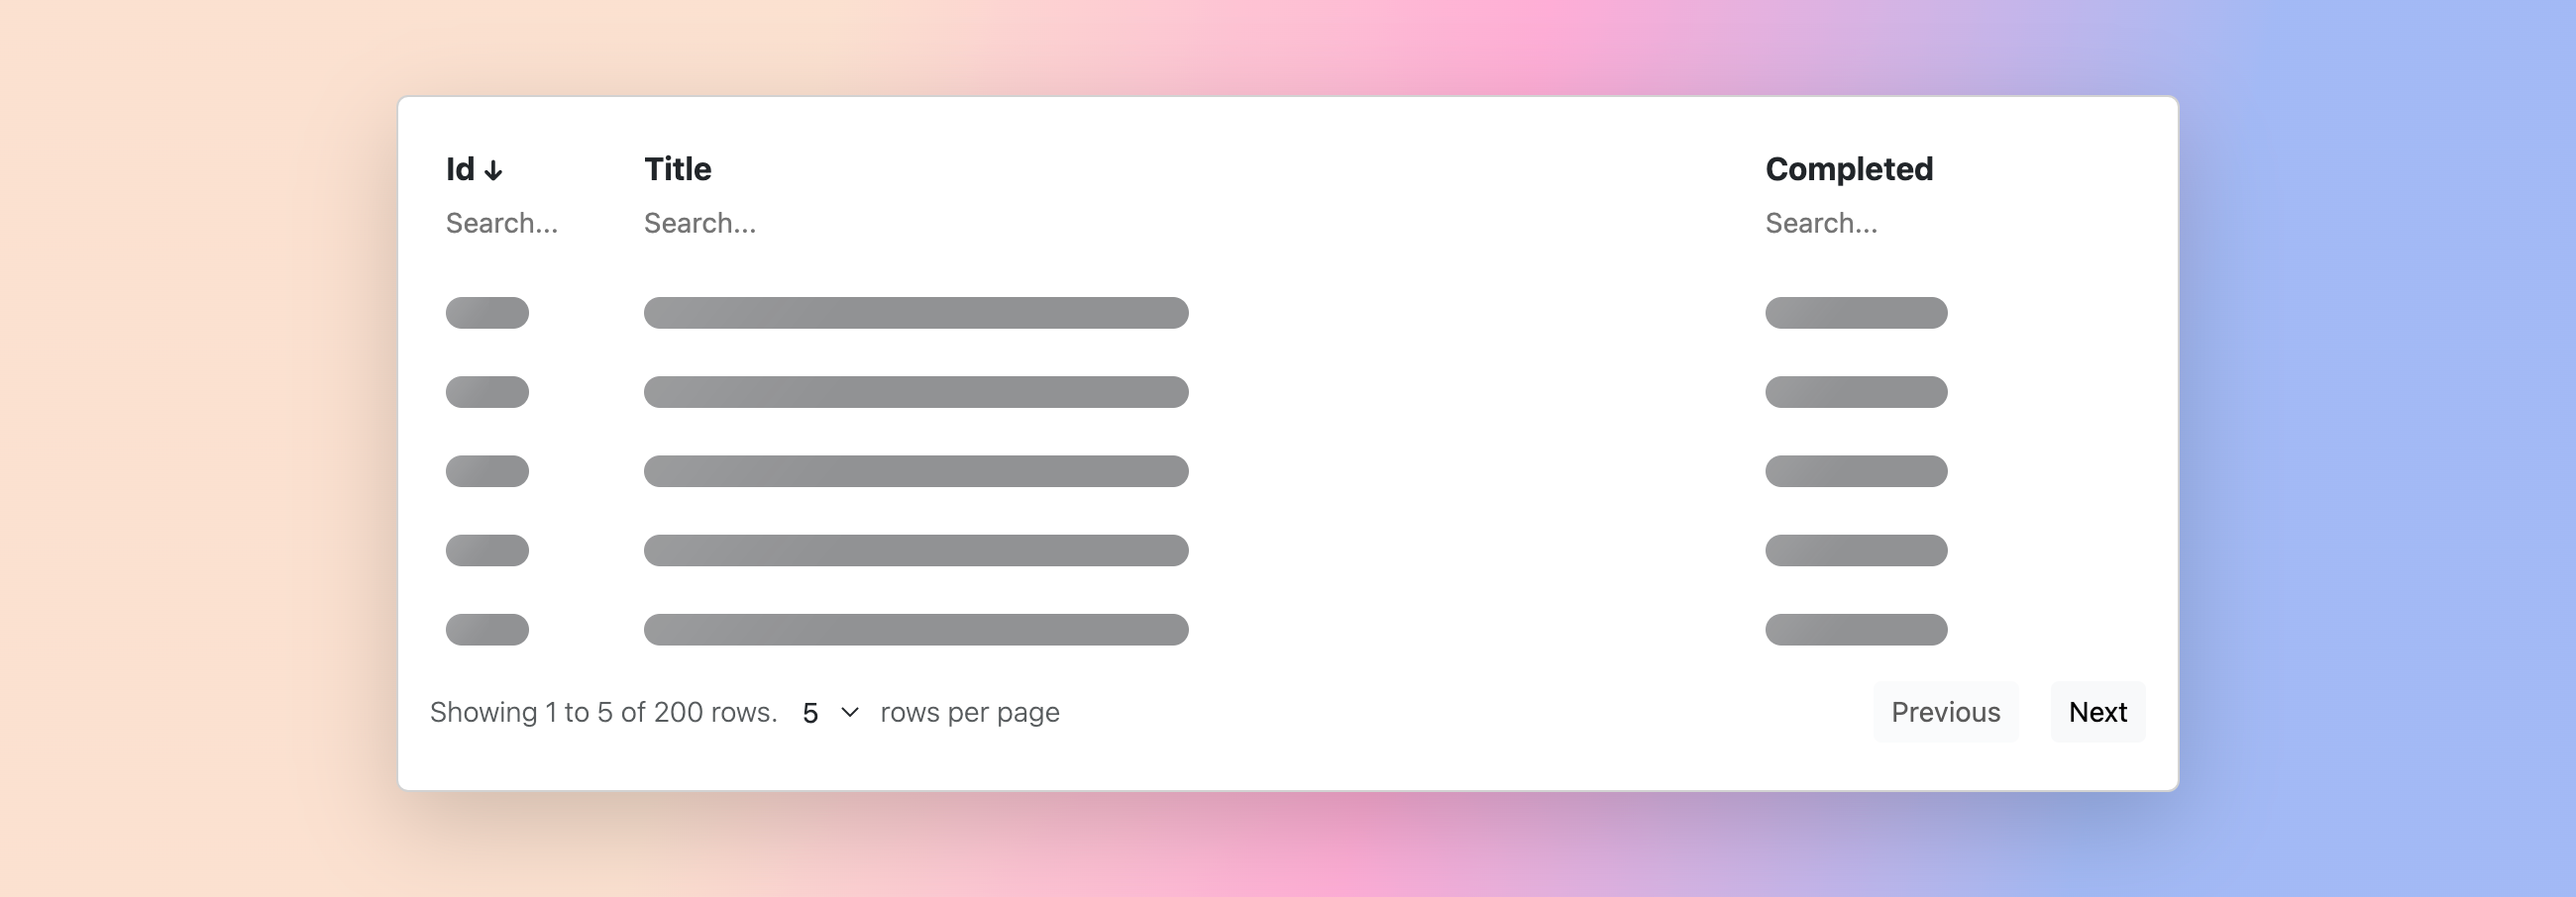
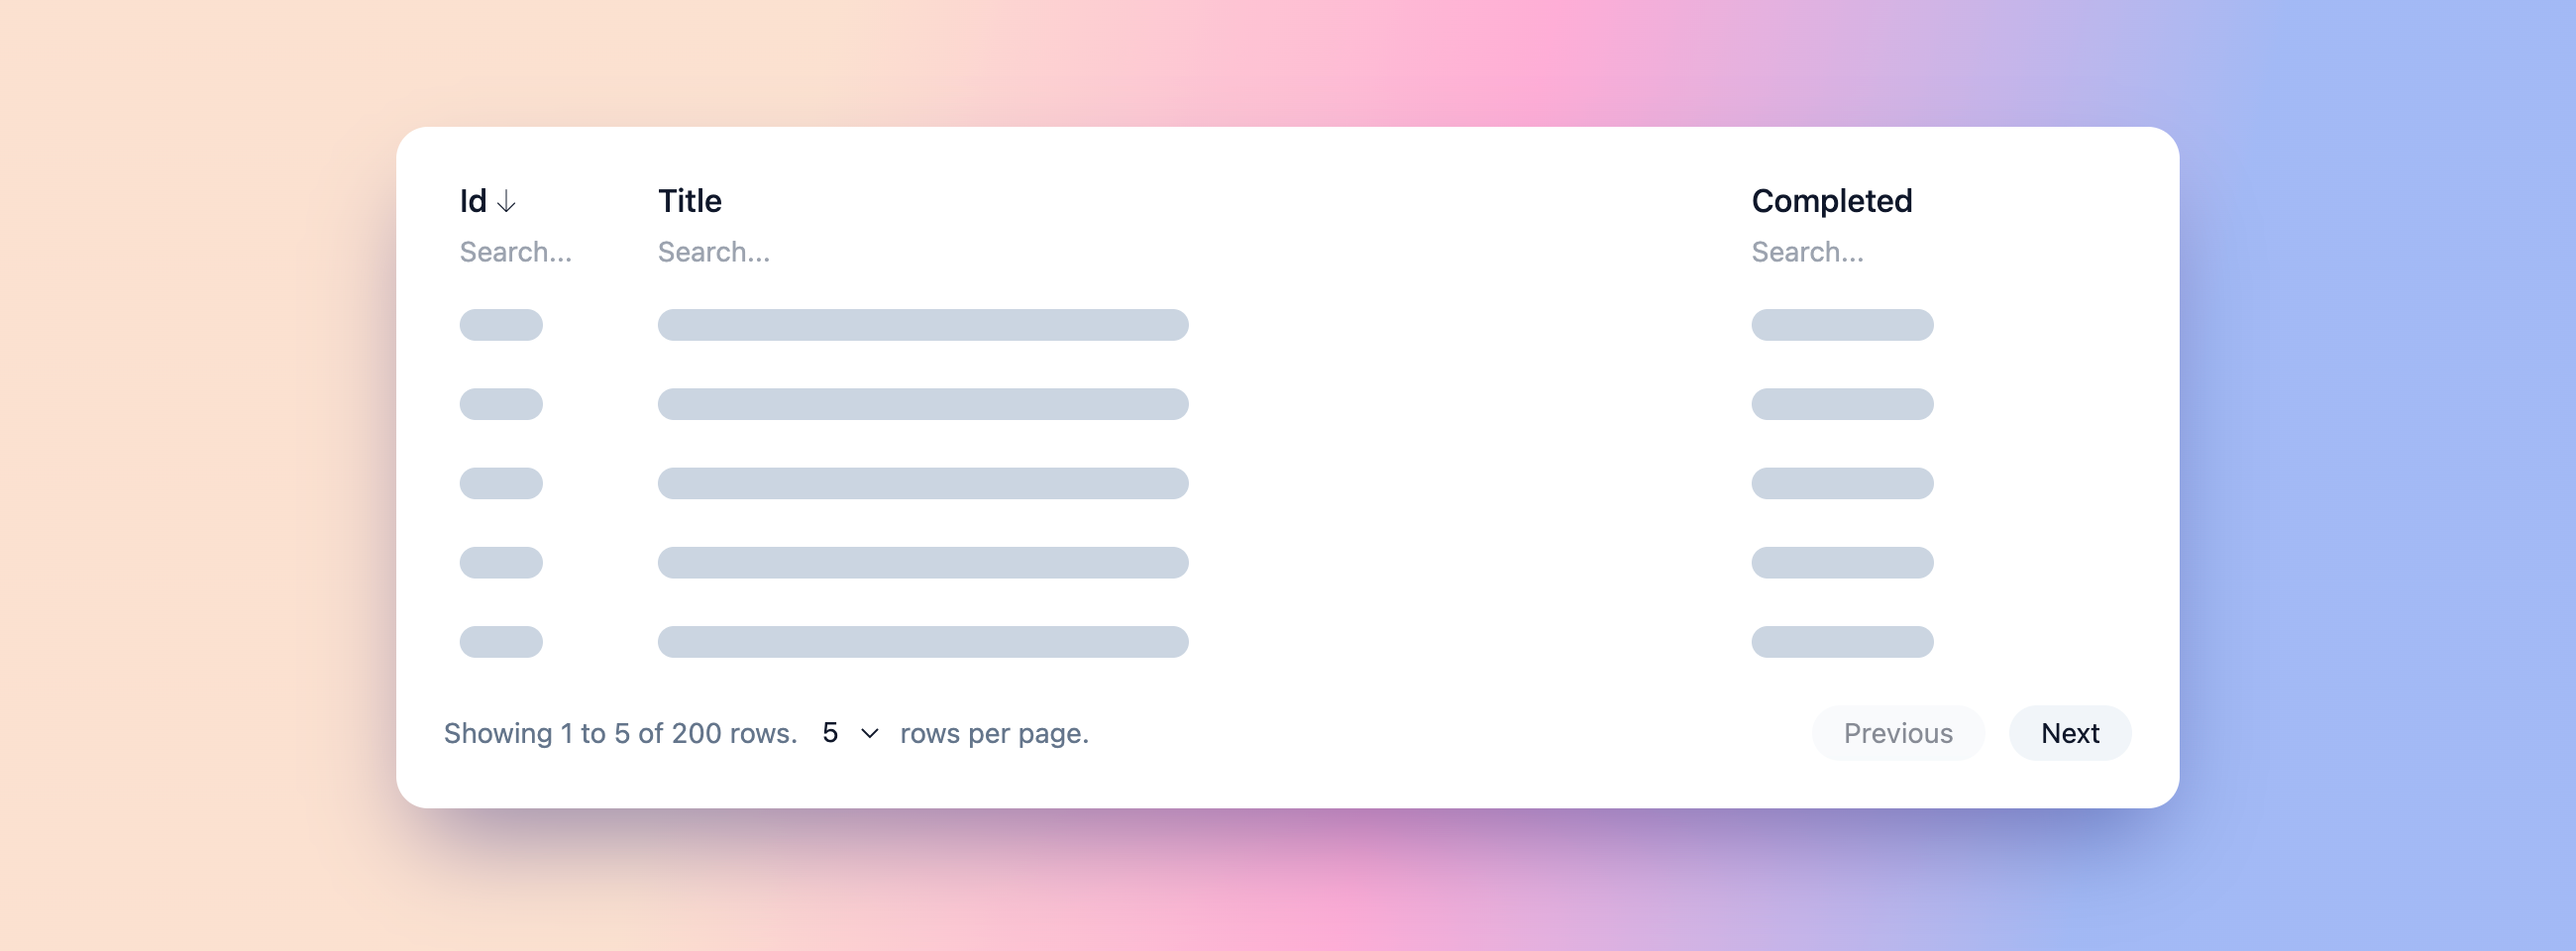
style by tailwind

diff --git a/example/table/table-pagination.tsx b/example/table/table-pagination.tsx
@@ -21,28 +21,26 @@ export const TablePagination: FC = memo(() => {
     recordsPerPageChanged(parseInt(e.target.value));
 
   return (
-    <div className="d-flex align-items-center justify-content-between">
-      <div className="d-flex align-items-center fw-light gap-2">
-        <small>{`Showing ${recordsRange} ${allRecordsCount} rows.`}</small>
-        <div>
-          <select
-            defaultValue={recordsPerPage}
-            onChange={handleChange}
-            className="form-control-plaintext form-control-sm"
-          >
-            {[5, 10, 15].map((value) => (
-              <option key={value} value={value}>
-                {value}
-              </option>
-            ))}
-          </select>
-        </div>
-        <small>rows per page</small>
+    <div className="flex items-center justify-between">
+      <div className="flex items-center text-sm text-slate-500 gap-2">
+        <span>{`Showing ${recordsRange} ${allRecordsCount} rows.`}</span>
+        <select
+          defaultValue={recordsPerPage}
+          onChange={handleChange}
+          className="text-slate-900 outline-0 border-b-2 border-transparent focus:border-indigo-500 cursor-pointer"
+        >
+          {[5, 10, 15].map((value) => (
+            <option key={value} value={value}>
+              {value}
+            </option>
+          ))}
+        </select>
+        <span>rows per page.</span>
       </div>
-      <div className="d-flex gap-3">
+      <div className="flex gap-3">
         <button
           type="button"
-          className="btn btn-light btn-sm"
+          className="inline-flex items-center h-7 px-4 bg-slate-100 disabled:opacity-50 text-sm rounded-full leading-none cursor-pointer focus:outline outline-indigo-500 focus:outline-offset-2"
           disabled={isFirstPage}
           onClick={previousPageSwitched}
         >
@@ -51,7 +49,7 @@ export const TablePagination: FC = memo(() => {
 
         <button
           type="button"
-          className="btn btn-light btn-sm"
+          className="inline-flex items-center h-7 px-4 bg-slate-100 disabled:opacity-50 text-sm rounded-full leading-none cursor-pointer focus:outline outline-indigo-500 focus:outline-offset-2"
           disabled={isLastPage}
           onClick={nextPageSwitched}
         >

diff --git a/index.html b/index.html
@@ -5,12 +5,8 @@
     <link rel="icon" type="image/svg+xml" href="/vite.svg" />
     <meta name="viewport" content="width=device-width, initial-scale=1.0" />
     <title>Vite + React + TS</title>
-    <link
-      href="https://cdn.jsdelivr.net/npm/bootstrap@5.2.0-beta1/dist/css/bootstrap.min.css"
-      rel="stylesheet"
-      integrity="sha384-0evHe/X+R7YkIZDRvuzKMRqM+OrBnVFBL6DOitfPri4tjfHxaWutUpFmBp4vmVor"
-      crossorigin="anonymous"
-    />
+
+    <script src="https://cdn.tailwindcss.com"></script>
   </head>
   <body>
     <div id="root"></div>

diff --git a/example/table/table-placeholder.tsx b/example/table/table-placeholder.tsx
@@ -12,10 +12,8 @@ export const TablePlaceholder: FC = memo(() => {
       {Array.from({ length: recordsPerPage }, (_, index) => (
         <tr key={index}>
           {columns.map((column) => (
-            <td key={column}>
-              <div className="placeholder-wave">
-                <span className="placeholder col-6 rounded-pill"></span>
-              </div>
+            <td key={column} className="py-3 px-2">
+              <span className="flex w-1/2 h-4 bg-slate-300 rounded-full" />
             </td>
           ))}
         </tr>

diff --git a/example/table/table.tsx b/example/table/table.tsx
@@ -17,10 +17,10 @@ export const Table = <R extends Record<string, unknown>>({
   return (
     <TableProvider value={store}>
       <table
-        className="table table-borderless m-0"
-        style={{ tableLayout: 'fixed' }}
+        className="table w-full table-fixed text-base text-slate-900"
+        style={{ captionSide: 'bottom' }}
       >
-        <caption>
+        <caption className="mt-3">
           <TablePagination />
         </caption>
         <colgroup>

diff --git a/example/main.tsx b/example/main.tsx
@@ -11,14 +11,12 @@ const todoTableStore = createTodoTable();
 const App = () => {
   return (
     <div
-      className="card mt-5 shadow-lg"
+      className="bg-white p-6 shadow-2xl shadow-indigo-900/50 mt-16 rounded-2xl"
       style={{
         maxWidth: 900,
       }}
     >
-      <div className="card-body">
-        <Table store={todoTableStore} />
-      </div>
+      <Table store={todoTableStore} />
     </div>
   );
 };

diff --git a/example/table/table-empty.tsx b/example/table/table-empty.tsx
@@ -7,12 +7,12 @@ export const TableEmpty: FC = memo(() => {
   const columns = useStore($columns);
 
   return (
-    <tr className="bg-light">
+    <tr>
       <td
         colSpan={columns.length}
-        className="text-center text-muted fst-italic"
+        className="bg-slate-50 p-5 text-center font-extralight text-sm italic"
       >
-        <small>No Data</small>
+        No Data
       </td>
     </tr>
   );

diff --git a/example/table/table-filter.tsx b/example/table/table-filter.tsx
@@ -17,7 +17,7 @@ export const TableFilter: FC<Props> = memo(({ column }) => {
   return (
     <input
       placeholder="Search..."
-      className="form-control-plaintext form-control-sm"
+      className="block w-full text-sm font-normal py-1 outline-0 border-b-2 border-transparent focus:border-indigo-500"
       value={value}
       onChange={(e) => filters.filterChanged([column, e.target.value])}
     />

diff --git a/example/table/table-rows.tsx b/example/table/table-rows.tsx
@@ -13,7 +13,9 @@ export const TableRows: FC = memo(() => {
     fn: (record) => (
       <tr>
         {columns.map((column) => (
-          <td key={column}>{String(record[column])}</td>
+          <td key={column} className="text-base p-2">
+            {String(record[column])}
+          </td>
         ))}
       </tr>
     ),

diff --git a/example/table/table-columns.tsx b/example/table/table-columns.tsx
@@ -11,7 +11,7 @@ export const TableColumns: FC = memo(() => {
   return (
     <tr>
       {columns.map((column) => (
-        <th key={column}>
+        <th key={column} className="text-left px-2">
           <TableTitle column={column} />
           <TableFilter column={column} />
         </th>

diff --git a/example/table/table-order.tsx b/example/table/table-order.tsx
@@ -6,5 +6,5 @@ export const TableOrder: FC = memo(() => {
   const { sorting } = useTable();
   const order = useStore(sorting.$order);
 
-  return <small>{order === 'asc' ? ' ↑' : ' ↓'}</small>;
+  return <span className="font-thin">{order === 'asc' ? ' ↑' : ' ↓'}</span>;
 });

diff --git a/example/table/table-title.tsx b/example/table/table-title.tsx
@@ -14,7 +14,7 @@ export const TableTitle: FC<Props> = memo(({ column }) => {
 
   return (
     <span
-      className="text-capitalize"
+      className="capitalize font-medium"
       role="button"
       tabIndex={0}
       onClick={() => sortedBy(column)}
